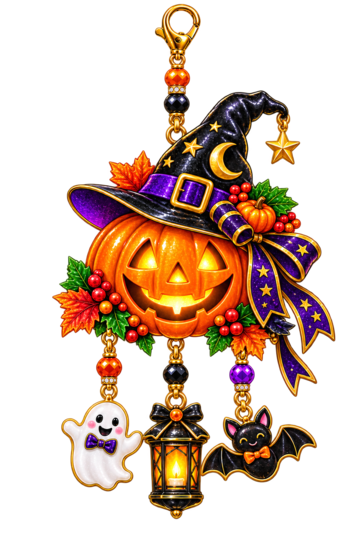
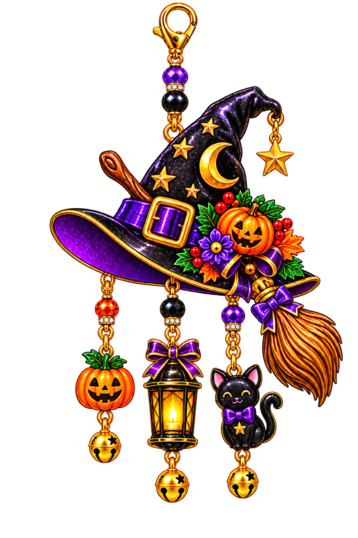
Finalize live payments and Halloween dangle

diff --git a/PremiumUpsellWindow.xaml b/PremiumUpsellWindow.xaml
@@ -139,7 +139,7 @@
           <TextBlock x:Name="StatusText" Margin="2,7,2,0" TextWrapping="Wrap" Foreground="#AEB4C3" FontSize="11.5" />
           <Button x:Name="UnlockButton" Content="Unlock Premium" Height="40" Margin="0,10,0,0" Style="{StaticResource PrimaryButton}" Click="Unlock_Click" />
           <StackPanel Orientation="Horizontal" HorizontalAlignment="Center" Margin="0,6,0,0">
-            <Button Content="Have License or Already Paid"
+            <Button Content="Have License or Already Paid?"
                     Style="{StaticResource LinkButton}"
                     Click="Restore_Click" />
           </StackPanel>                    <TextBlock x:Name="RefundPolicyText"

diff --git a/UI/Support/SupportWindow.xaml.cs b/UI/Support/SupportWindow.xaml.cs
@@ -37,7 +37,7 @@ public partial class SupportWindow : Window
             _selectedAmount = 200m;
 
             MarketText.Text =
-                "India payment via Razorpay";
+                "India payment via Dodo Payments";
 
             Preset1Button.Content = "INR 100";
             Preset1Button.Tag = "100";
@@ -226,9 +226,7 @@ public partial class SupportWindow : Window
         _updatingAmount = false;
 
         var providerEnabled =
-            _isIndia
-                ? config.Providers.RazorpayEnabled
-                : config.Providers.DodoEnabled;
+            config.Providers.DodoEnabled;
 
         PayButton.IsEnabled = providerEnabled;
 
@@ -651,7 +649,7 @@ public partial class SupportWindow : Window
 
             await PollCheckoutAsync(
                 checkout.CheckoutId,
-                TimeSpan.FromSeconds(90));
+                TimeSpan.FromMinutes(6));
         }
         catch (Exception ex)
         {
